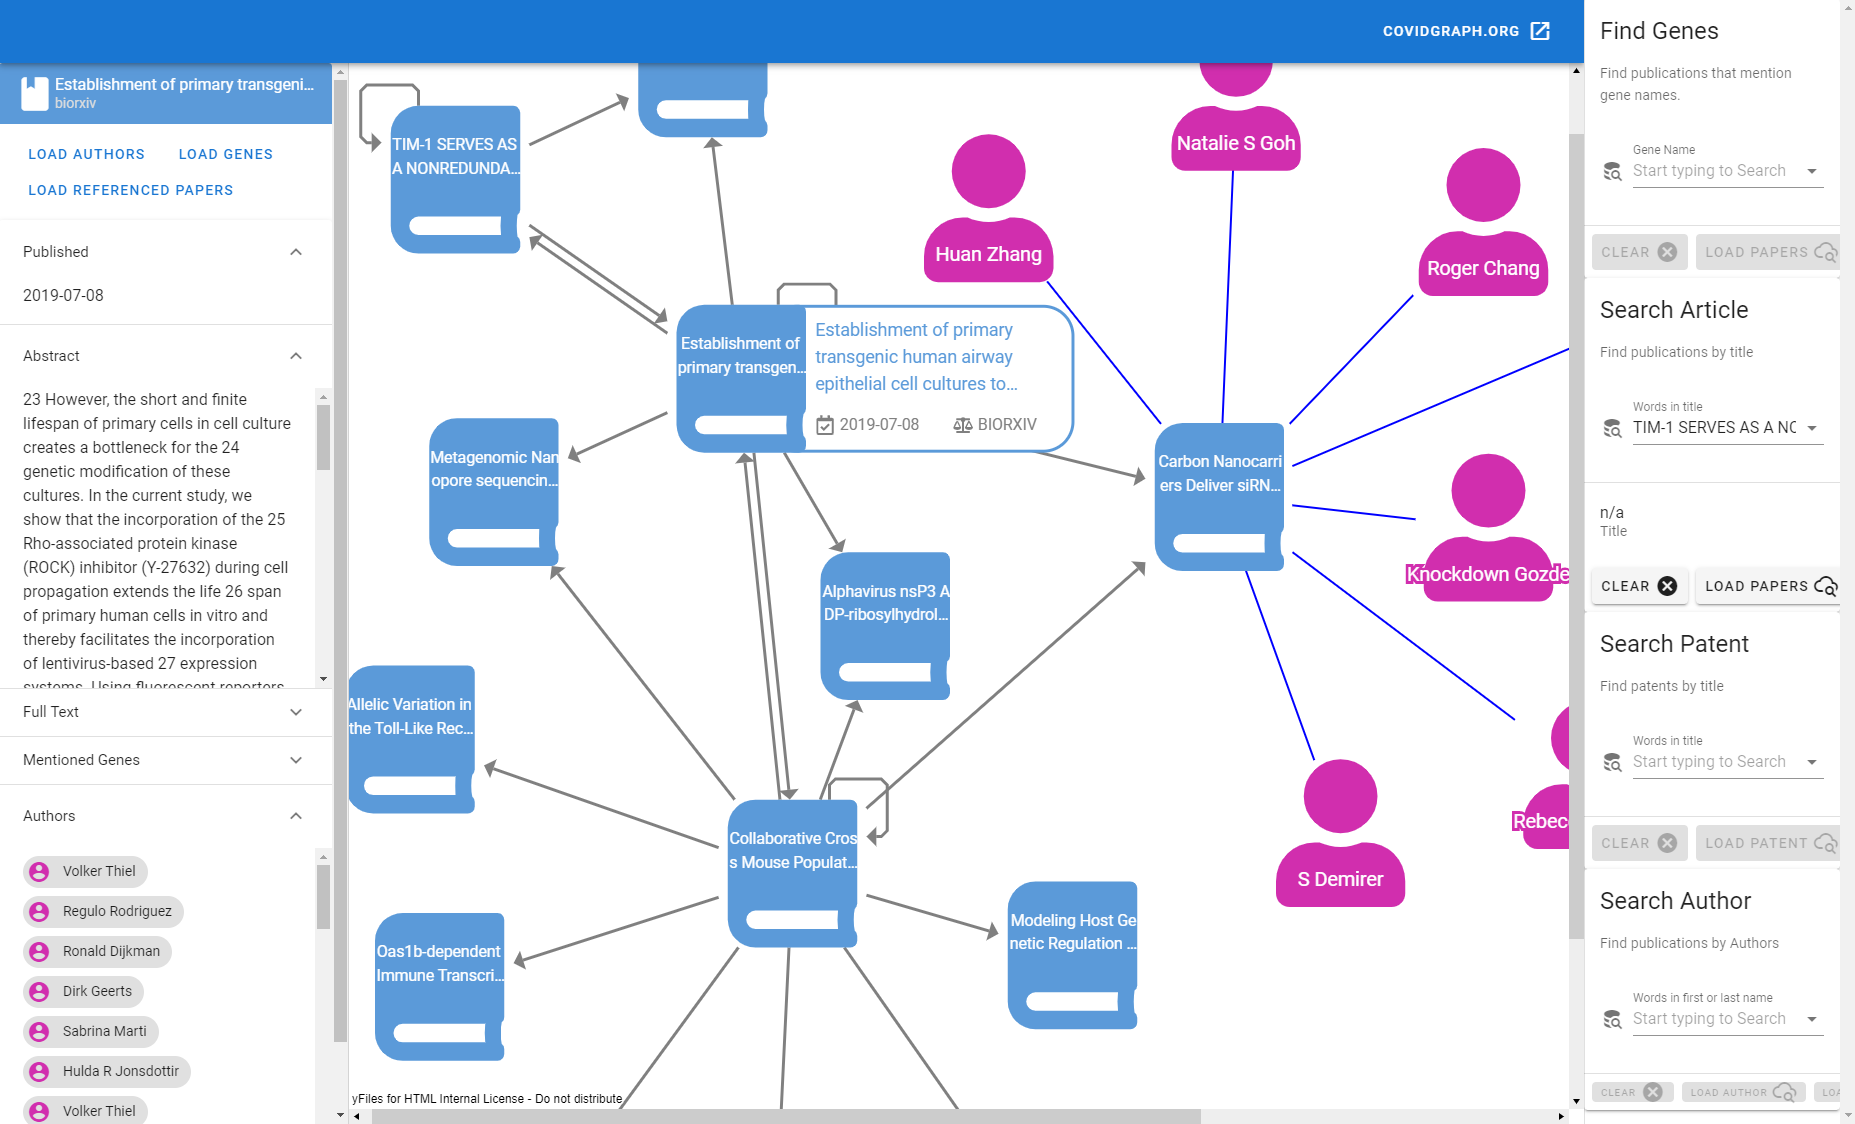
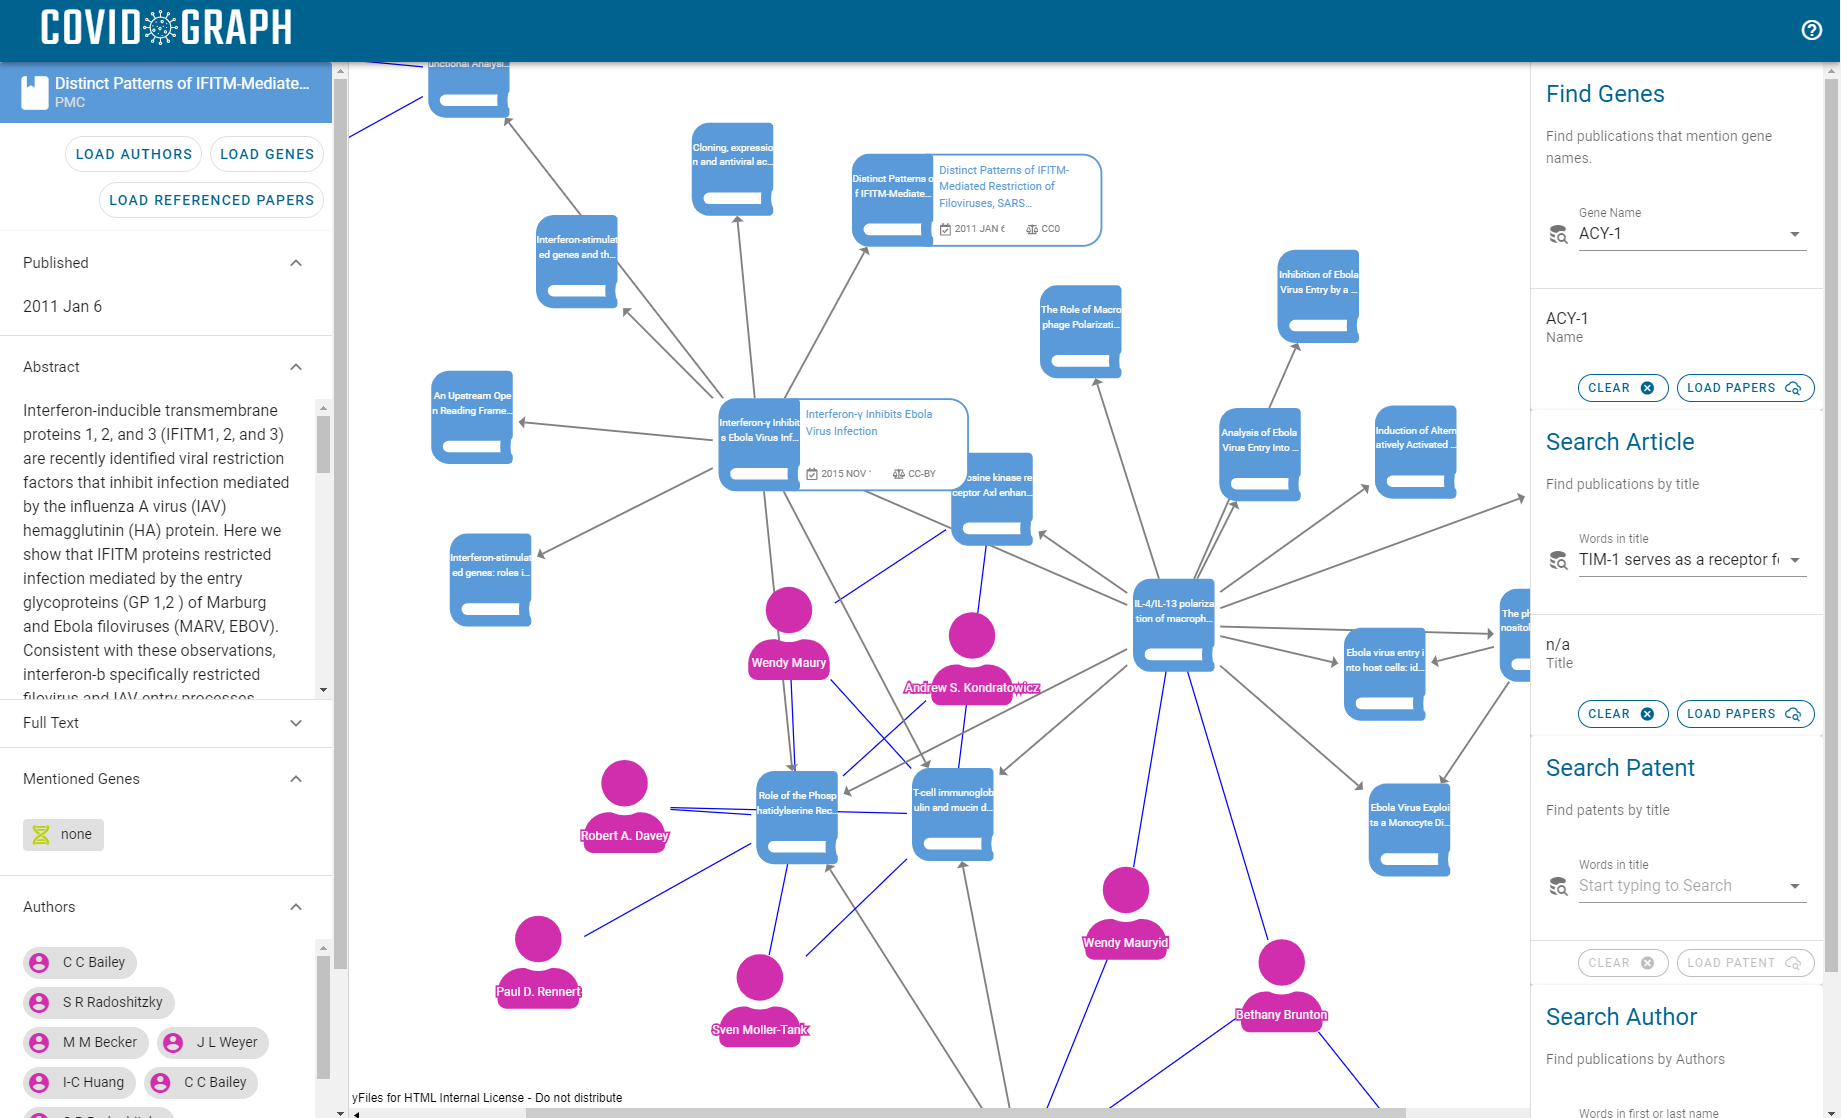
screenshot and sidebar size fix

diff --git a/src/App.vue b/src/App.vue
@@ -34,7 +34,7 @@
       </v-tooltip>
     </v-app-bar>
 
-    <v-navigation-drawer app permanent clipped right width="310px">
+    <v-navigation-drawer app permanent clipped right width="350">
       <SearchGene
         @search-gene="$refs.graphComponent.searchGene($event)"
       ></SearchGene>
